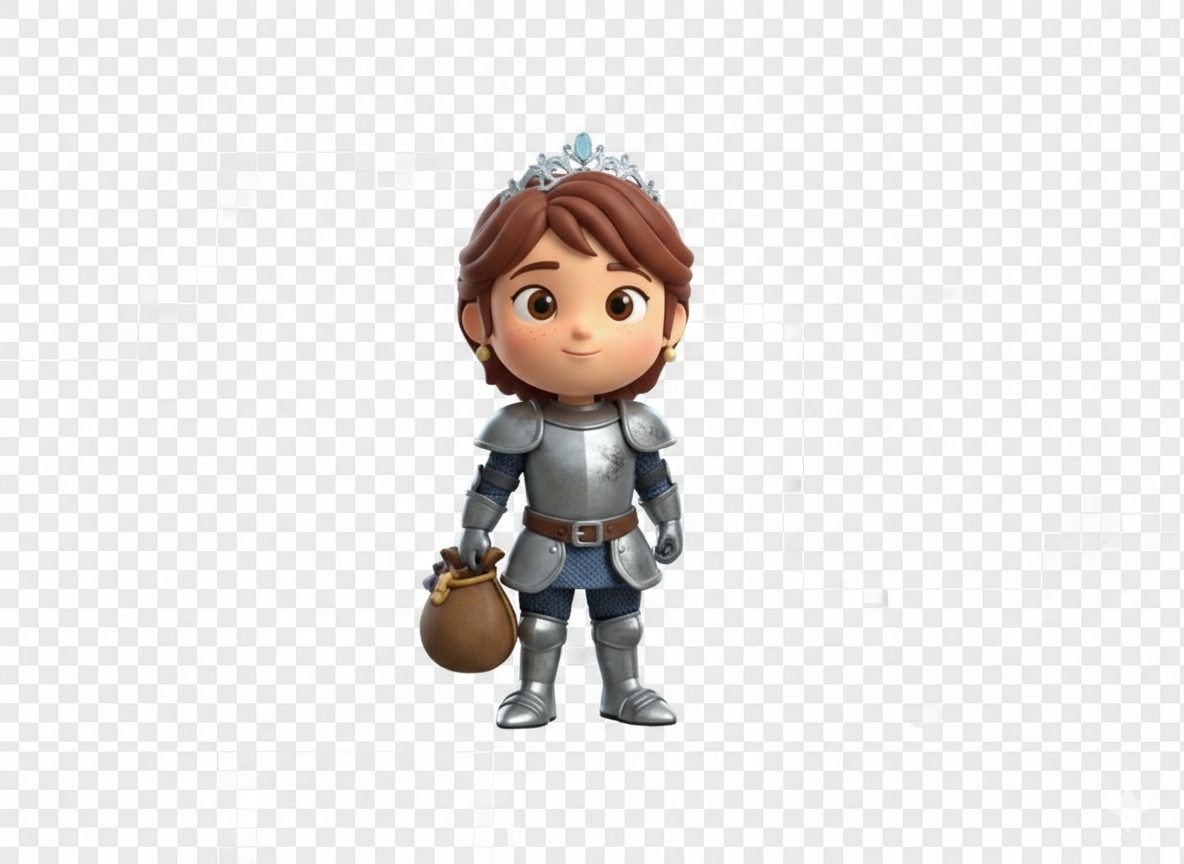
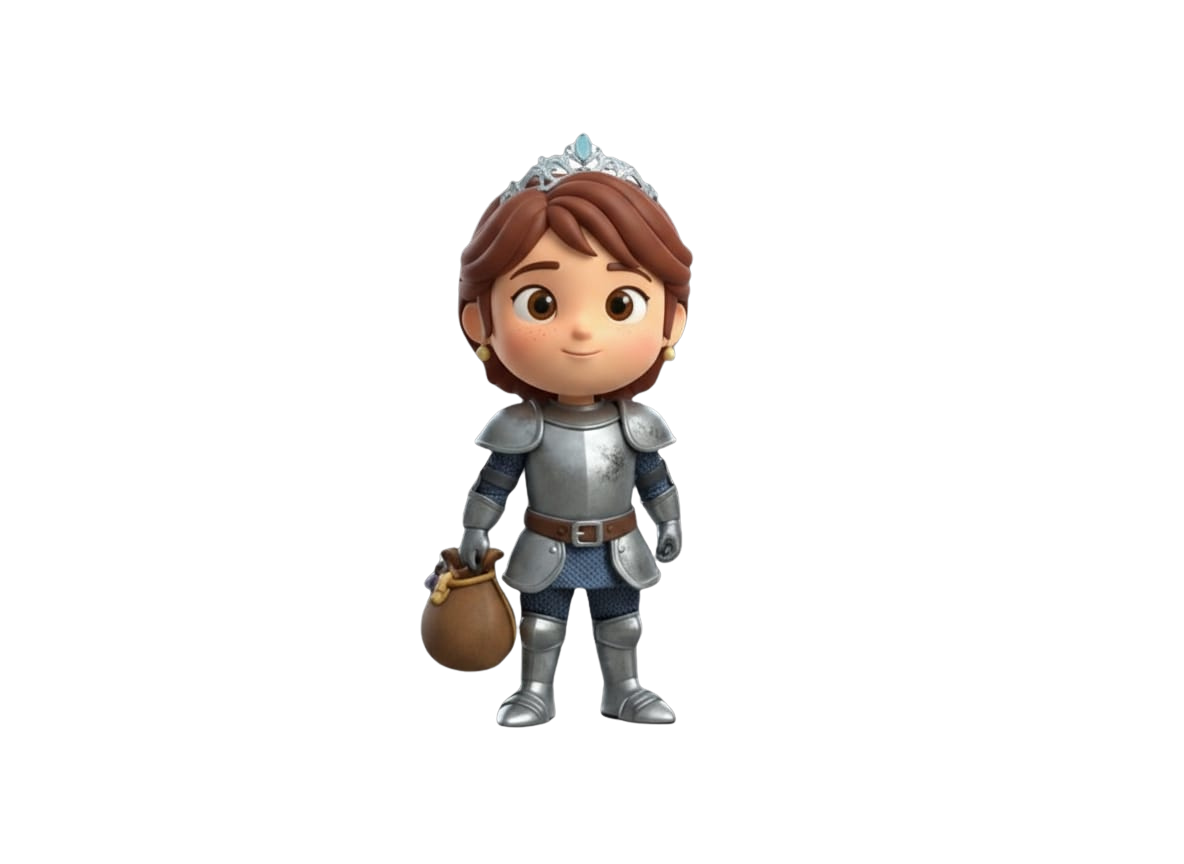
Correção de fundo e ajuste dos cards dos personagens

diff --git a/MATEMAGICA/style.css b/MATEMAGICA/style.css
@@ -104,15 +104,15 @@ body {
 .card-personagem {
   background: url('images/moldura.png') no-repeat center center;
   background-size: contain;
-  width: 160px;
-  height: 260px;
+  width: 250px;
+  height: 375px;
   display: flex;
   flex-direction: column;
   justify-content: flex-end;
   align-items: center;
   cursor: pointer;
   transition: transform 0.2s ease;
-  padding-bottom: 15px;
+  padding-bottom: 20px;
 
   /* Estilo para indicar seleção */
   border: 3px solid transparent;
@@ -129,10 +129,11 @@ body {
 
 .card-personagem:hover {
   transform: scale(1.05);
+  width: px;
 }
 
 .card-personagem img {
-  width: 90px;
+  width: 400px;
   height: auto;
   margin-bottom: 10px;
 }
